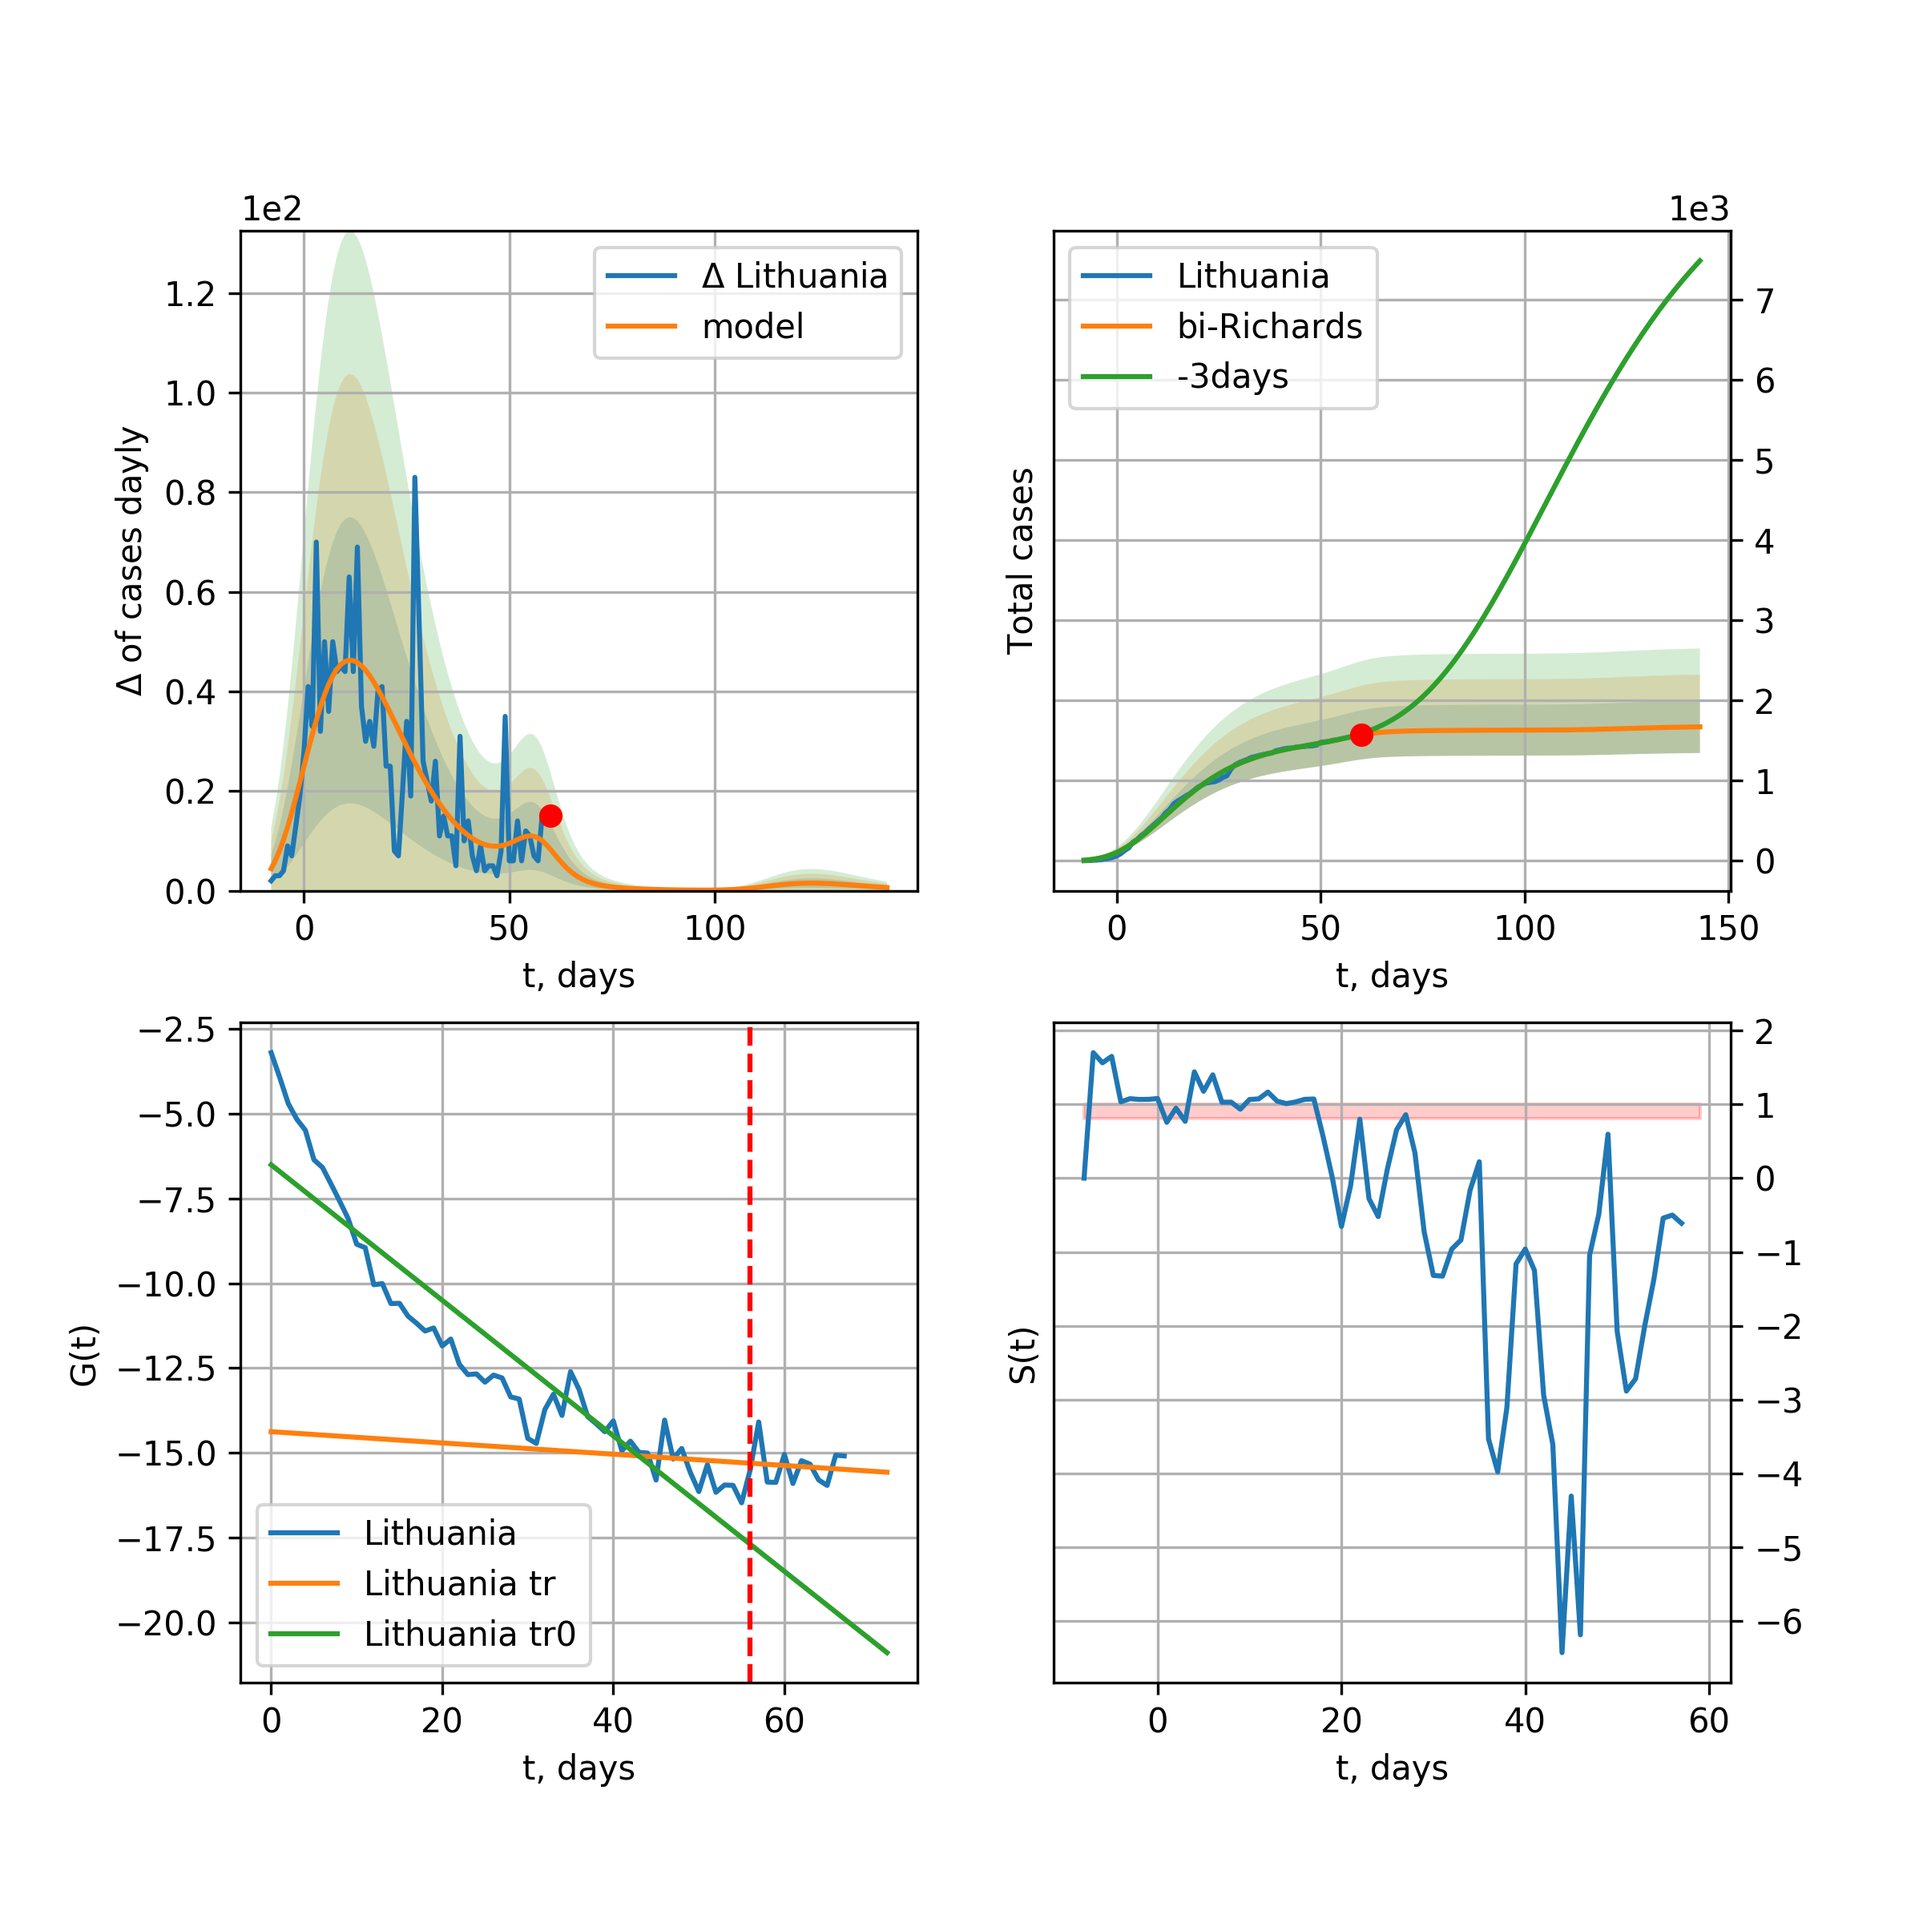
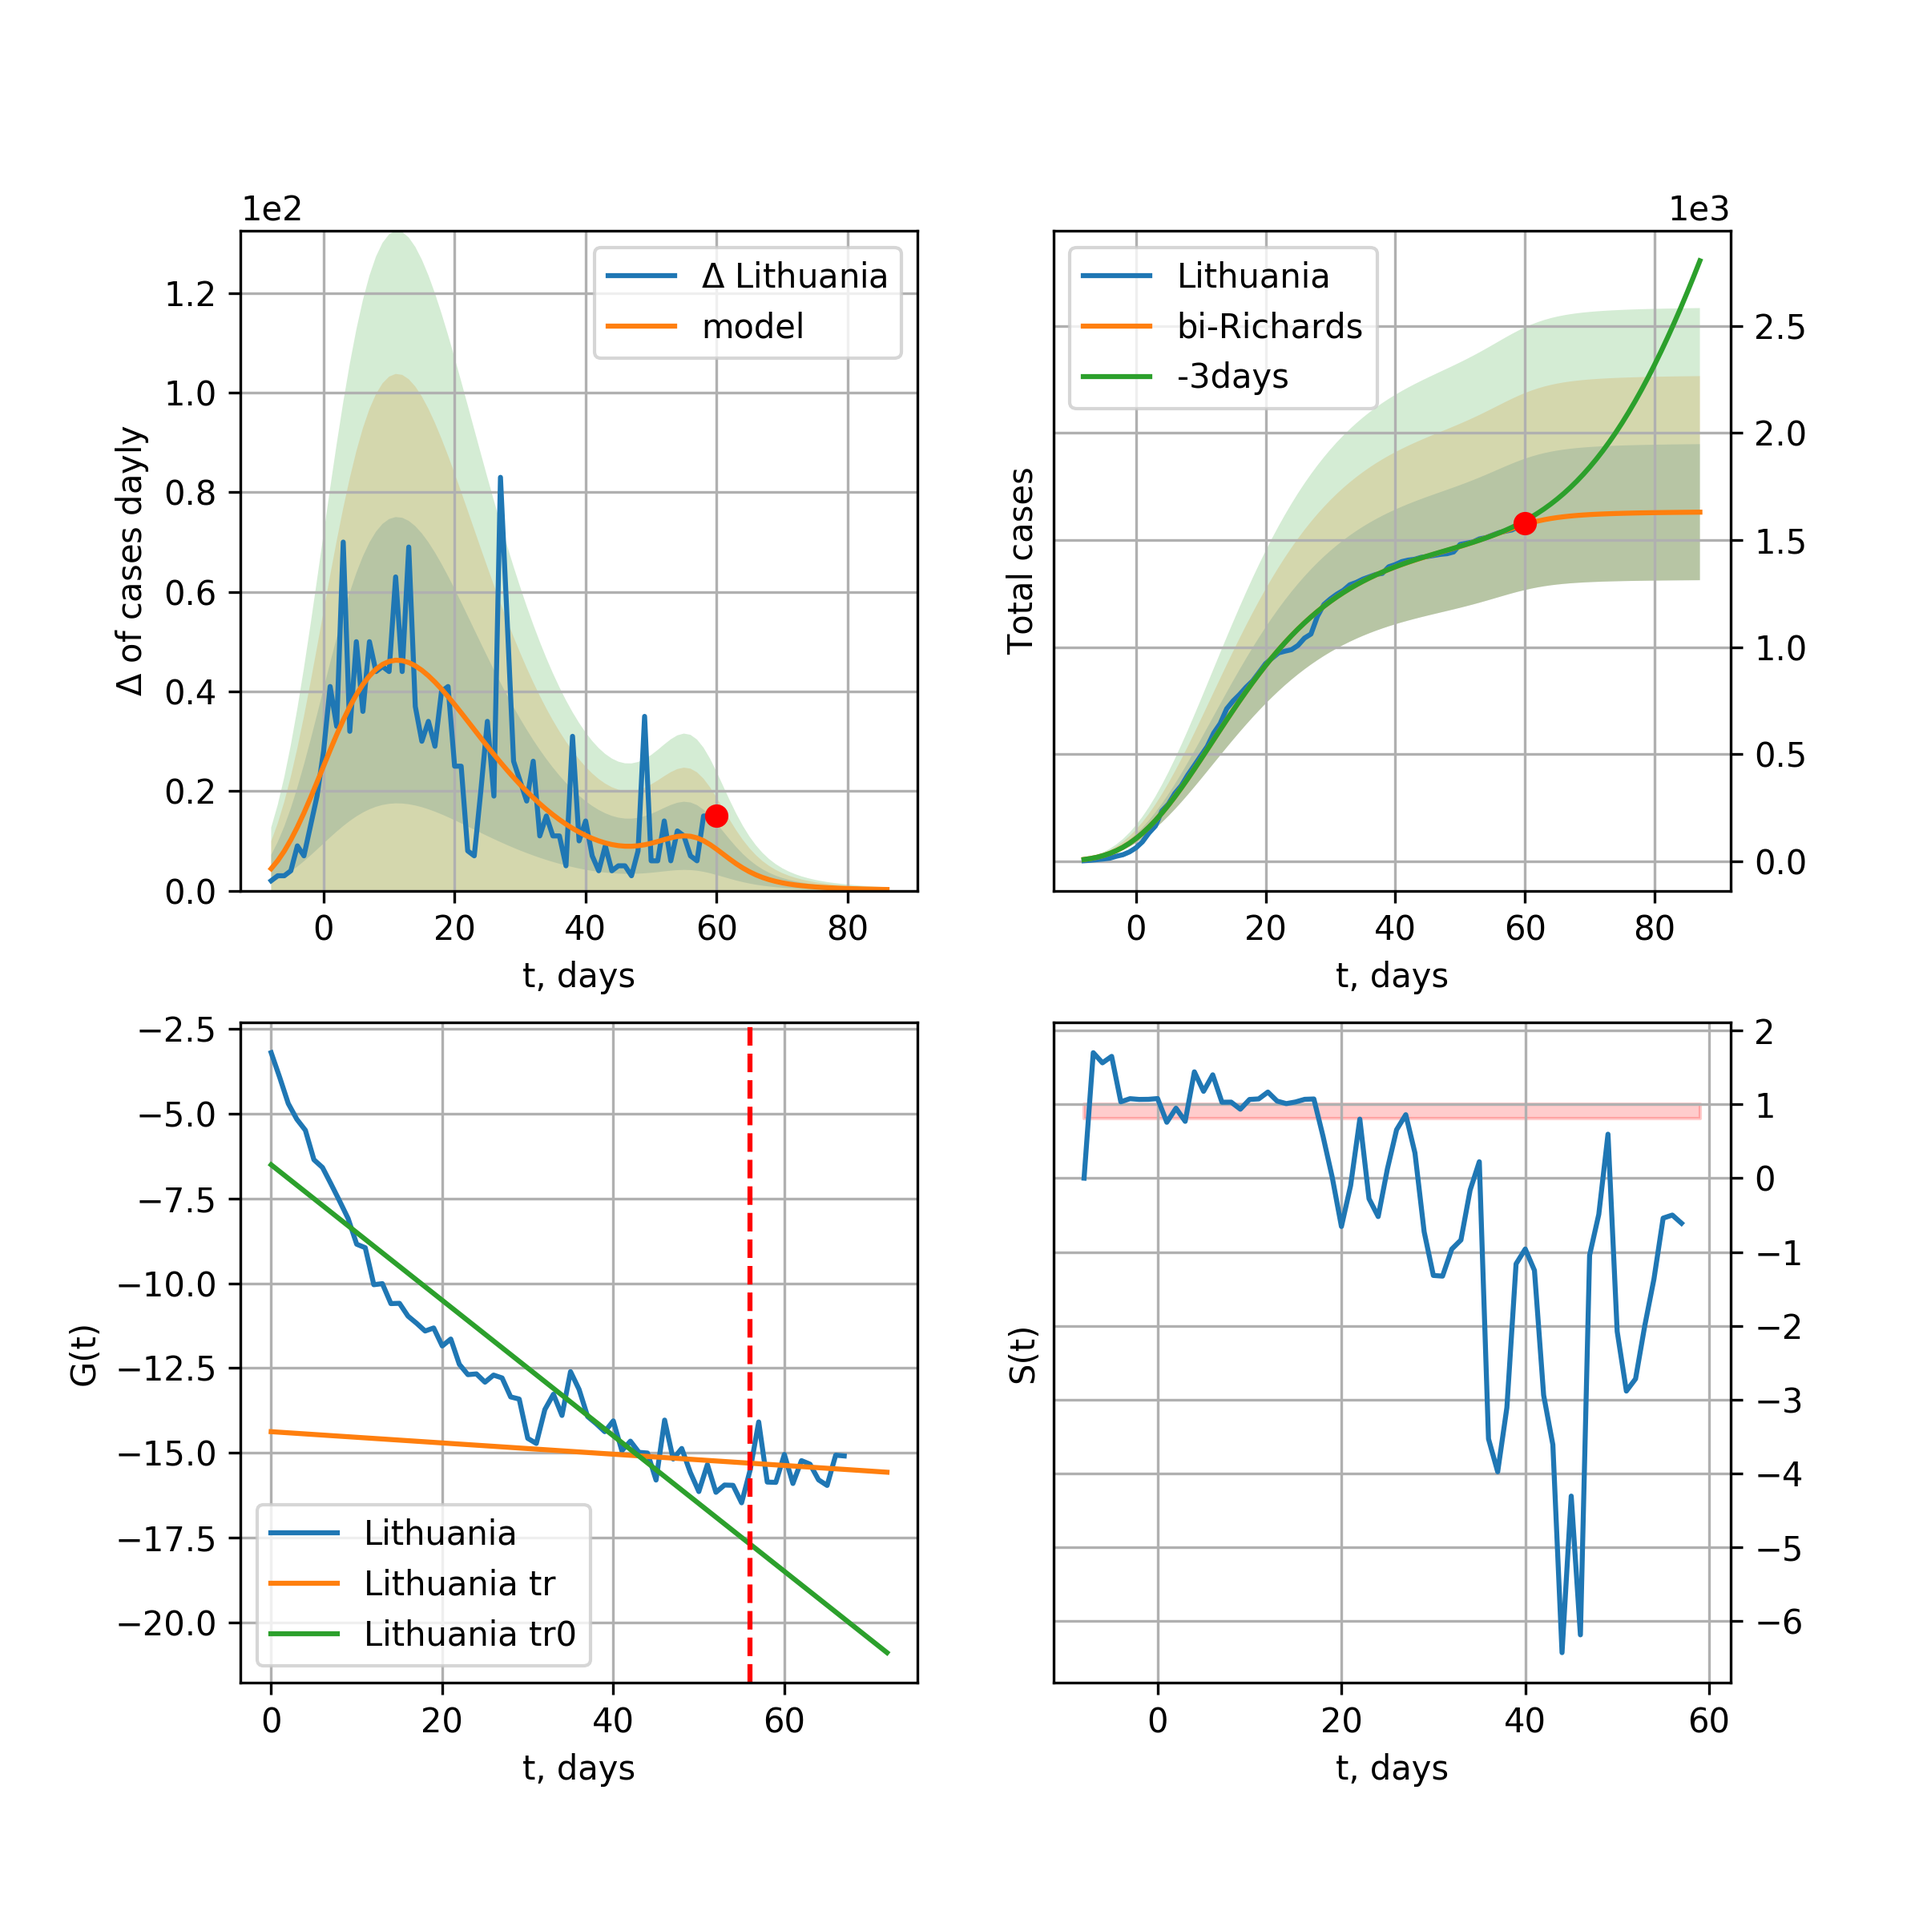
LT renew 2020-05-19

diff --git a/_site/index.html b/_site/index.html
@@ -1409,12 +1409,11 @@ trend coefficient of determination: 0.919966 <br />
 +3 day model MAPE: 0.015979<br />
 model: bi-Richards<br />
 coeffs: [128.38168655   0.1998912   57.85145318   1.41795592]<br />
-S.Korea scenario coeffs: [0.36242246, 2.56241634, 1.84890887, 0.13324732]<br />
 rational stdev: 0.194832<br />
-forecast at the end of period: +83 days<br />
+forecast at the end of period: +27 days<br />
 	 deltaDaycases: 0<br />
-	 total cases: 1672 ± 325<br />
-	 total death: 64 ± 37<br />
+	 total cases: 1629 ± 317<br />
+	 total death: 62 ± 36<br />
 bi-Richards approximation splitting point: 56<br />
 trend coefficient of determination: 0.873953 <br />
  intercept: -6.505904 <br />
